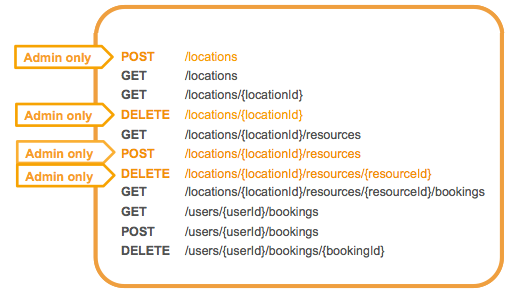
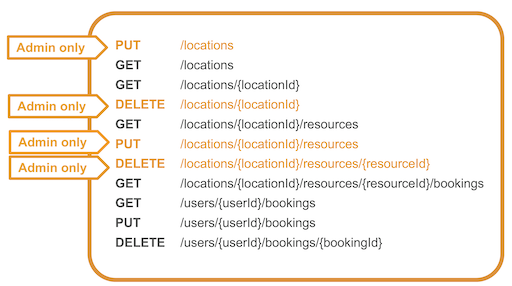
Documentation updates.

Changed region(s): [[0.0, 0.0, 1.0, 1.0]]

diff --git a/fargate-rest-api/javascript-rest-nlb-ecs-sam/README.md b/fargate-rest-api/javascript-rest-nlb-ecs-sam/README.md
@@ -1,4 +1,4 @@
-# javascript-ecs-nlb-sam
+# javascript-rest-ecs-nlb-sam
 This is implementation of the backend API using AWS API Gateway REST endpoint, Node.js and AWS SAM. 
 
 ## Project structure
@@ -23,6 +23,11 @@ This project contains source code and supporting files for a serverless applicat
 
 The application uses shared Amazon Cognito stack for authentication/authorization and a VPC stack for ECS networking. These stacks are included as nested stacks within `template.yaml`. 
 
+## Prerequisites
+- AWS CLI: `aws --version`
+- Node.js: `node --version` (Use 14+)
+- [jq](https://stedolan.github.io/jq/): jq --version
+
 ## Deploying with CI/CD pipeline
 You will use the CloudFormation CLI to deploy the stack defined within `pipeline.yaml`. This will deploy the required foundation which will allow you to make changes to your application and deploy them in a CI/CD fashion. 
     The following resources will be created:
@@ -45,9 +50,7 @@ git pull ../serverless-samples fargate-rest-api
 To create the pipeline you will need to run the following command:
 
 ```bash
-
-# Let's save our stack name so we can use it in other commands
-export STACK_NAME=fargate-rest-api-pipeline
+STACK_NAME=fargate-rest-api-pipeline
 
 aws cloudformation deploy --stack-name $STACK_NAME --template-file ./pipeline.yaml --capabilities CAPABILITY_IAM
 ```
@@ -77,44 +80,69 @@ This will trigger a new deployment in CodePipeline. Navigate to the CodePipeline
 ## Amazon Cognito setup
 Amazon Cognito is automatically deployed with the application as part of the CI/CD pipeline. A distinct user pool is used for each of the Testing and Production environments.
 
-After the application is deployed, you will need to create user account for authentication/authorization:
+As part of the integration tests within the CI/CD pipeline, user accounts are created (and deleted) automatically. If you'd like to call the API Endpoint manually (i.e. curl, Postman), then use the following steps to create a user and retrieve an ID Token:
 
 - Navigate to URL specified in the shared stack template outputs as CognitoLoginURL and click link "Sign Up". After filling in new user registration form you should receive email with verification code, use it to confirm your account. 
 
 - After this first step step your new user account will be able to access public data and create new bookings. To add locations and resources you will need to navigate to AWS Console, pick Amazon Cognito service, select User Pool instance that was created during this deployment, navigate to "Users and Groups", and add your user to administrative users group. 
 
-- As an alternative to the AWS Console you can use AWS CLI to create and confirm user signup:
+- As an alternative to the AWS Console you can use AWS CLI to create and confirm user signup. Note: Make sure to replace <username> and <password> with values of your choosing.
+
 ```bash
     USER_POOL_ID=$(aws cloudformation describe-stacks --stack-name $STACK_NAME-Production | jq -r '.Stacks[0].Outputs[] | select(.OutputKey == "UserPool") | .OutputValue')
     USER_POOL_CLIENT_ID=$(aws cloudformation describe-stacks --stack-name $STACK_NAME-Production | jq -r '.Stacks[0].Outputs[] | select(.OutputKey == "UserPoolClient") | .OutputValue')
+
     aws cognito-idp sign-up --client-id $USER_POOL_CLIENT_ID --username <username> --password <password> --user-attributes Name="name",Value="<username>"
+
     aws cognito-idp admin-confirm-sign-up --user-pool-id $USER_POOL_ID --username <username> 
+
+    aws cognito-idp admin-add-user-to-group --user-pool-id $USER_POOL_ID --username <username> --group-name apiAdmins
 ```
 
-While using command line or third party tools such as Postman to test APIs, you will need to provide Identity Token in the request "Authorization" header. You can authenticate with Amazon Cognito User Pool using AWS CLI (this command is also available in SAM template outputs) and use IdToken value present in the output of the command:
+To authenticate with the Amazon Cognito User Pool and retrieve an Identity Token (aka ID Token), run the following command. Copy the `IdToken` value from the resulting output. API Gateway authorizes requests based on this token being present in the `Authorization` header.
 
 ```bash
 aws cognito-idp initiate-auth --auth-flow USER_PASSWORD_AUTH --client-id $USER_POOL_CLIENT_ID --auth-parameters USERNAME=<username>,PASSWORD=<password>
 ```
 
-## Unit tests
-Unit tests are defined in the `__tests__` folder within each service (i.e. `src/api/locations`). Use `npm` to install the [Jest test framework](https://jestjs.io/) and run unit tests.
-
-```bash
-npm install
-npm run test:unit
-```
-
 ## Calling the endpoint
 
+To manually make calls to the API Endpoint, copy the `IdToken` value from the previous step and use it in place of <ID_TOKEN> for the following commands.
+
+First, let's save the API Gateway endpoint URL to a variable:
 ```bash
-# Here is an example curl command to hit the /locations endopint
-
-# Fetch the API Gateway REST endpoint
 API_ENDPOINT=$(aws cloudformation describe-stacks --stack-name $STACK_NAME-Production | jq -r '.Stacks[0].Outputs[] | select(.OutputKey == "APIEndpoint") | .OutputValue')
+```
 
-# Since there is no data in the database you should receive an empty array ("[]") as a response.
-curl -H "Authorization: Bearer <ID_TOKEN>" $API_ENDPOINT/locations
+Now, let's add some data by creating a location:
+```bash
+curl -H "Authorization: Bearer <ID_TOKEN>" \
+     -H "Content-Type: application/json" \
+     -d '{"imageUrl": "https://api.example.com/venetian.jpg", "description": "Headquorters in New Yorks", "name": "HQ"}' \
+     -X PUT \
+    $API_ENDPOINT/locations | jq
+```
+
+Lastly, let's fetch the newly-created location:
+```bash
+curl -H "Authorization: Bearer <ID_TOKEN>" $API_ENDPOINT/locations | jq
+```
+
+## Unit tests
+Unit tests run within the CI/CD pipeline, but can also be run manually. They are defined in the `__tests__` folder within each service (i.e. `src/api/locations`).  To run all the unit tests for each service, run the following commands:
+
+```bash
+cd src/api/locations
+npm install
+npm run test:unit
+
+cd ../bookings
+npm install
+npm run test:unit
+
+cd ../locations
+npm install
+npm run test:unit
 ```
 
 ## Cleanup
@@ -122,15 +150,25 @@ curl -H "Authorization: Bearer <ID_TOKEN>" $API_ENDPOINT/locations
 To delete the sample application that you created, use the AWS CLI:
 
 ```bash
-# Delete the application stacks
 aws cloudformation delete-stack --stack-name $STACK_NAME-Testing
-aws cloudformation delete-stack --stack-name f$STACK_NAME-Production
+aws cloudformation delete-stack --stack-name $STACK_NAME-Production
 
-# Wait for the deletions to complete before deleting the pipeline stacks
 aws cloudformation wait stack-delete-complete --stack-name $STACK_NAME-Testing
 aws cloudformation wait stack-delete-complete --stack-name $STACK_NAME-Production
+```
 
-# Delete/empty ECR repositories and S3 buckets
+Before the CI/CD pipeline stack can be deleted, you must empty the build artifact S3 bucket via the AWS Management Console. To get the name of the bucket, run the following commands:
+
+```bash
+pipelineStackOutputs=$(aws cloudformation describe-stacks --stack-name $STACK_NAME | jq -r '.Stacks[0].Outputs')
+echo "$pipelineStackOutputs" | jq -r '.[] | select(.OutputKey == "BuildArtifactS3Bucket") | .OutputValue'
+```
+
+Navigate to S3 within the AWS Management Console and search for the bucket. Once found, select the bucket and click the "Empty" button. Make sure to follow the prompts so that the bucket will be emptied.
+
+Similarly, you also need to empty the ECR repositories that store the container images for the applications. Run the following commands to do so via the AWS CLI:
+
+```bash
 pipelineStackOutputs=$(aws cloudformation describe-stacks --stack-name $STACK_NAME | jq -r '.Stacks[0].Outputs')
 bookingsRepositoryName=$(echo "$pipelineStackOutputs" | jq -r '.[] | select(.OutputKey == "BookingsServiceRepositoryName") | .OutputValue')
 locationsRepositoryName=$(echo "$pipelineStackOutputs" | jq -r '.[] | select(.OutputKey == "LocationsServiceRepositoryName") | .OutputValue')
@@ -139,12 +177,11 @@ resourcesRepositoryName=$(echo "$pipelineStackOutputs" | jq -r '.[] | select(.Ou
 aws ecr delete-repository --repository-name $bookingsRepositoryName --force
 aws ecr delete-repository --repository-name $locationsRepositoryName --force
 aws ecr delete-repository --repository-name $resourcesRepositoryName --force
+```
 
-artifactBucketName=$(echo "$pipelineStackOutputs" | jq -r '.[] | select(.OutputKey == "BuildArtifactS3Bucket") | .OutputValue')
+Now, you can delete the pipeline stack. Run the following commands:
 
-aws s3 rm s3://$artifactBucketName --recursive
-
-# Delete pipeline stack
+```bash
 aws cloudformation delete-stack --stack-name $STACK_NAME
 aws cloudformation wait stack-delete-complete --stack-name $STACK_NAME
 ```
